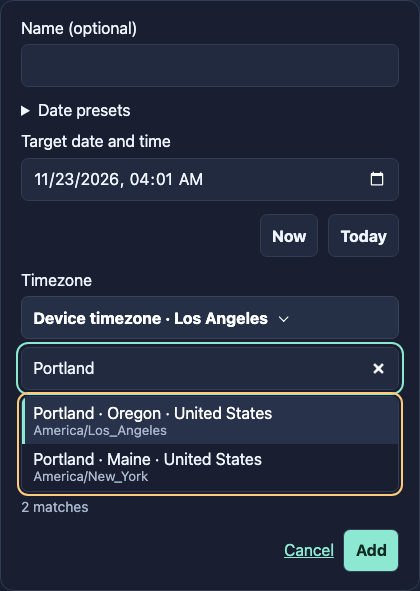
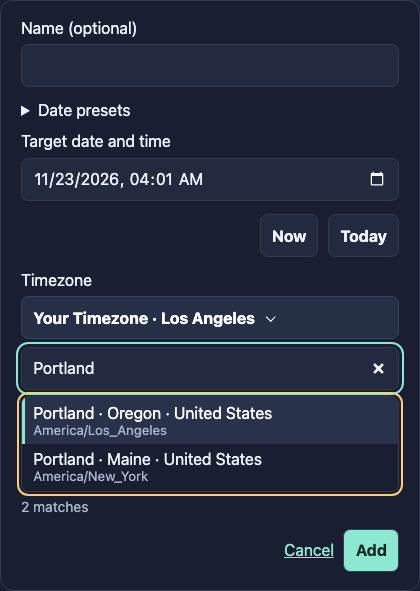
Rename device timezone to Your Timezone

Changed region(s): [[0.0619, 0.5178, 0.681, 0.5482]]

diff --git a/src/timezone-picker.js b/src/timezone-picker.js
@@ -16,7 +16,7 @@ export const timezoneField = `
     </div>
   </div>`;
 
-const device = zoneRow(deviceZone, `Device timezone · ${zoneLabel(deviceZone).split(" · ")[0]}`);
+const device = zoneRow(deviceZone, `Your Timezone · ${zoneLabel(deviceZone).split(" · ")[0]}`);
 const pinned = resolvedZone(deviceZone) === resolvedZone("UTC") ? [device] : [device, zoneRow("UTC")];
 const compareZones = (a, b) => a.group.localeCompare(b.group) || a.label.localeCompare(b.label);
 const runtimeRows = Intl.supportedValuesOf("timeZone").map(zone => zoneRow(zone))

diff --git a/docs/wip/timezone-picker-spec.md b/docs/wip/timezone-picker-spec.md
@@ -10,8 +10,8 @@ Users choose a named timezone and, for Date Countdown, a local date and time. Th
 
 ## Picker interaction
 
-1. Show a compact field labeled **Timezone** with the current value visible, such as **Device timezone · Los Angeles** or **Mumbai · India** immediately after selection. The form stores a named timezone ID such as `Asia/Kolkata`. After a reload or edit, display the saved zone's city-first label, such as **Kolkata · Asia**. A city alias is a way to find a timezone and is transient in this release.
-2. Opening the picker focuses **Search city or timezone**. With an empty query, pin **Device timezone** and **UTC**, then show supported zones grouped by IANA region. Sort group names and city-first rows alphabetically. Show pinned zones only once where IDs resolve to the same zone. The full browse list remains available even when no city data maps to a zone.
+1. Show a compact field labeled **Timezone** with the current value visible, such as **Your Timezone · Los Angeles** or **Mumbai · India** immediately after selection. The form stores a named timezone ID such as `Asia/Kolkata`. After a reload or edit, display the saved zone's city-first label, such as **Kolkata · Asia**. A city alias is a way to find a timezone and is transient in this release.
+2. Opening the picker focuses **Search city or timezone**. With an empty query, pin **Your Timezone** and **UTC**, then show supported zones grouped by IANA region. Sort group names and city-first rows alphabetically. Show pinned zones only once where IDs resolve to the same zone. The full browse list remains available even when no city data maps to a zone.
 3. A nonempty query shows a single ranked list across all regions. Match city names, ASCII spellings, selected aliases, and full timezone identifiers. Normalize case, accents, and runs of whitespace or underscores. Rank exact city, alias, or zone-ID matches before prefixes and then substring matches. Break otherwise equal matches by direct city name before alias, then population descending and stable ID. Return up to 30 results and invite refinement when more match. Display city plus country, with state or province when needed to distinguish duplicates. Show the timezone ID as secondary text where it helps distinguish results. Keep multiple city matches selectable even if they map to the same zone.
 4. **No matching cities or timezones** is an empty state with a clear-search action. Selecting a result commits its zone and closes the picker. Escape and dismissal leave the committed value intact. Pressing Enter in search chooses the active result when one exists and never submits the outer form. Changing the timezone leaves the target date and time fields intact. Clear on standalone Date Countdown resets the zone to the device default along with the target.
 5. Use an editable combobox with a listbox, following the WAI-ARIA combobox pattern. Give the trigger and search input accessible names, expose expanded state and the active option, and announce result counts or no matches without moving focus. Support arrows, Enter, Escape, Tab, and pointer selection. Escape and selection return focus to the trigger. Tab and outside clicks respect the user's destination. Allow the results to scroll independently, keep the active option visible, and verify mobile keyboard, zoom, touch targets, and narrow-screen layout. [WAI-ARIA combobox pattern](https://www.w3.org/WAI/ARIA/apg/patterns/combobox/)
